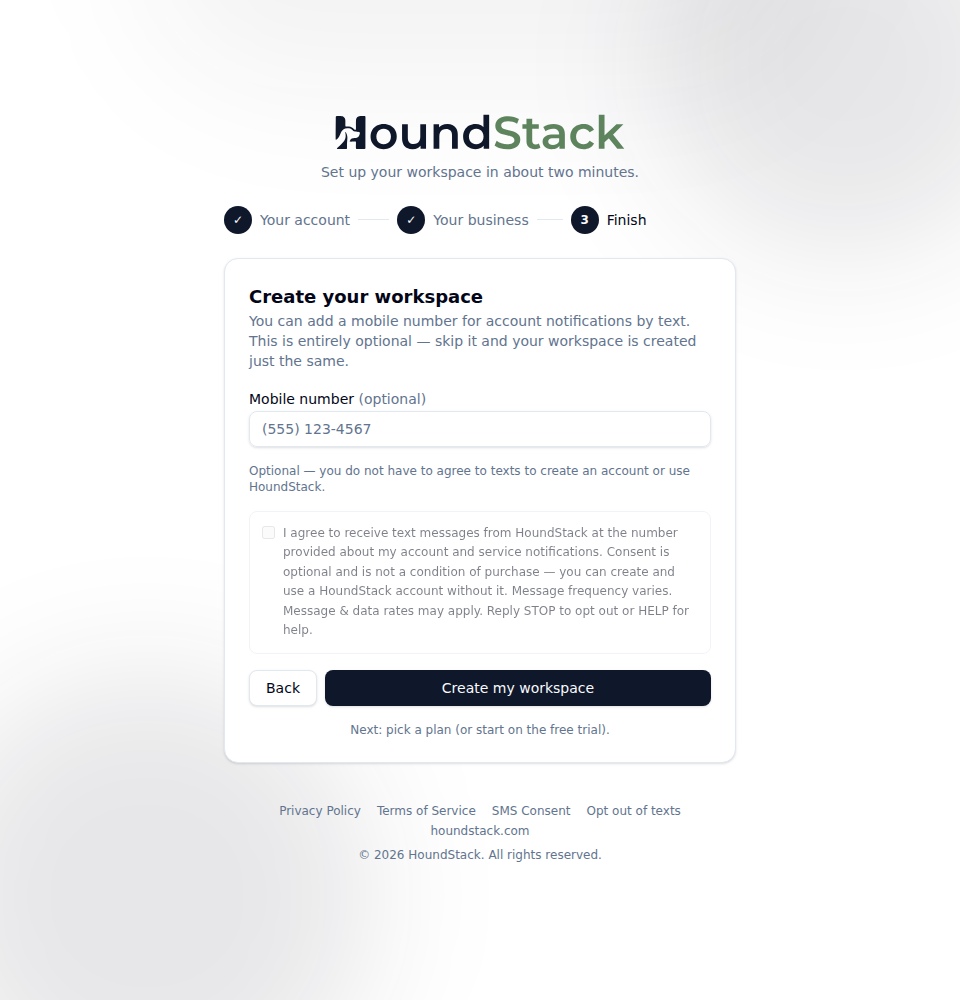
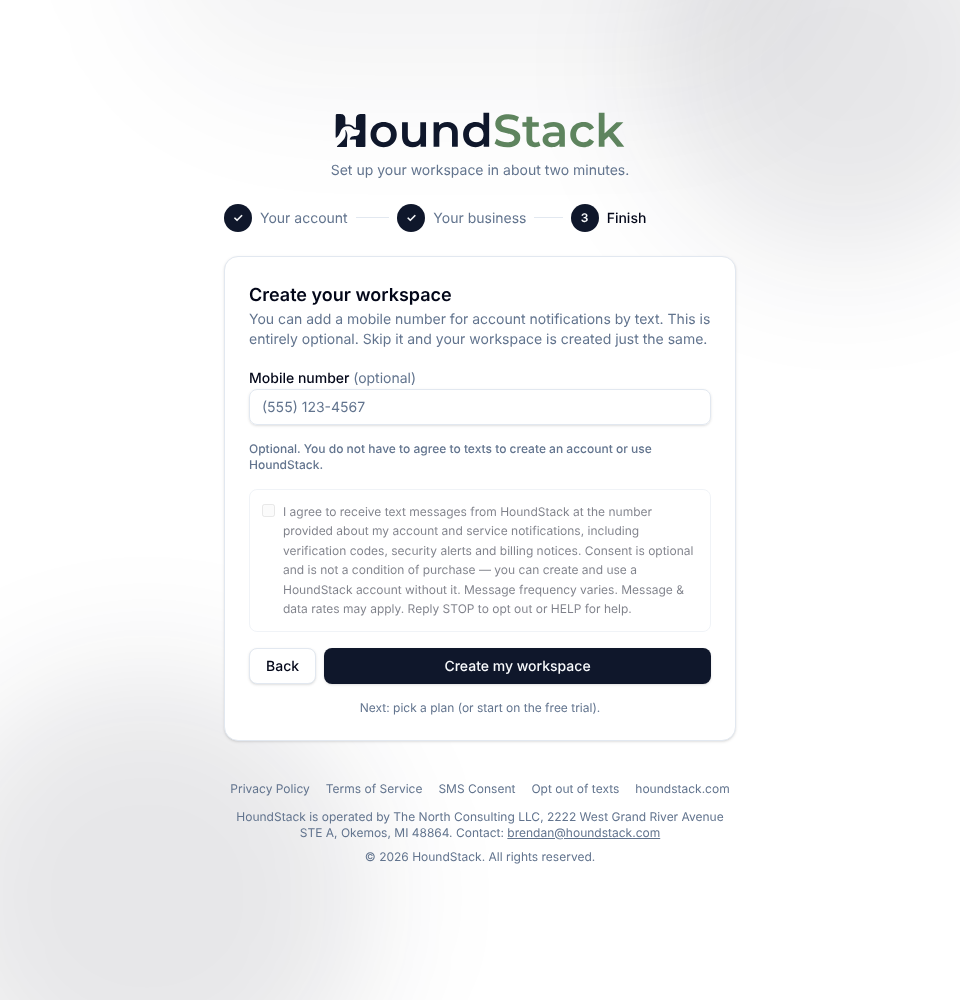
Say who runs HoundStack, and that texting is not live yet
Twilio rejected the toll-free verification for 30482 (contact email not on
the business domain) and 30474 (end-business details). Its reviewers check
the public pages for who operates the service and a same-domain contact, and
for policy wording that matches the filing.

- PublicFooter and the top of every /legal page now name The North
  Consulting LLC, its Okemos address, and brendan@houndstack.com. There is
  no phone number.
- /legal/sms: removes the claim that an account never needs a text. States
  the account-holder message types and says texting is coming soon, pending
  carrier registration. Drops the description of business-to-customer texts
  from this program.
- The signup consent sentence now names verification codes, security alerts
  and billing notices, and /legal/sms quotes it verbatim. The test now reads
  {" "} in the JSX, so a wrapped quote still compares.
- /legal/privacy: mobile numbers and consent records come only from opted-in
  account holders, are never shared or sold for marketing, and STOP/HELP
  handling is spelled out.
- Screenshots 3 to 8 are re-captured, with scripts/capture-sms-opt-in.mjs so
  they can be taken again against production.

Claude-Session: https://claude.ai/code/session_01WHCtARJyDNhr1vEJjgP34P

diff --git a/src/routes/legal.sms.tsx b/src/routes/legal.sms.tsx
@@ -22,7 +22,7 @@ export const Route = createFileRoute("/legal/sms")({
 
 function SmsPolicyPage() {
   return (
-    <LegalShell title="SMS Consent & Messaging Policy" updated="August 20, 2026">
+    <LegalShell title="SMS Consent & Messaging Policy" updated="October 7, 2026">
       <section>
         <h2>The short version</h2>
         <p>
@@ -62,25 +62,18 @@ function SmsPolicyPage() {
 
       <section>
         <h2>What messages we send</h2>
-        <p>{APP_NAME} sends two kinds of text messages, and both require prior consent:</p>
-        <ul>
-          <li>
-            <strong>Account messages to business users.</strong> If you create a {APP_NAME} account
-            and choose to give us a mobile number, we may text you account and service
-            notifications. This is optional: {APP_NAME} accounts sign in with an email address and
-            password, so you never need to receive a text to create, access or use your account.
-          </li>
-          <li>
-            <strong>Service messages to a business's customers.</strong> Pet-care businesses that
-            run on {APP_NAME} can text their own customers things like visit reminders,
-            "your technician is on the way" notices, visit-completed confirmations, portal sign-in
-            codes, overdue-invoice reminders, and review requests. These messages are sent only to
-            customers who gave that business their number and consent to be contacted.
-          </li>
-        </ul>
         <p>
-          We do not send marketing or promotional cold texts, and we never text numbers that have
-          not opted in.
+          <strong>Text messaging is coming soon and is pending carrier registration.</strong> No
+          text messages are sent under this program until that registration is complete.
+        </p>
+        <p>
+          Account holders who opt in may receive verification codes, security alerts, billing
+          notices and support replies by text from {APP_NAME}. These messages go only to the{" "}
+          {APP_NAME} account holder who gave us the number and ticked the consent box.
+        </p>
+        <p>
+          These messages are not used for marketing, and {APP_NAME} does not use them to message
+          account holders&apos; own customers. We never text numbers that have not opted in.
         </p>
       </section>
 
@@ -95,15 +88,15 @@ function SmsPolicyPage() {
         {/* em-dash-ok: quotes SMS_CONSENT_TEXT verbatim. See the note there. */}
         <p className="rounded-md border bg-muted/40 p-3 text-sm">
           "I agree to receive text messages from {APP_NAME} at the number provided about my account
-          and service notifications. Consent is optional and is not a condition of purchase — you
-          can create and use a {APP_NAME} account without it. Message frequency varies. Message
-          &amp; data rates may apply. Reply STOP to opt out or HELP for help."
+          and service notifications, including verification codes, security alerts and billing
+          notices. Consent is optional and is not a condition of purchase — you can create and use a{" "}
+          {APP_NAME} account without it. Message frequency varies. Message &amp; data rates may
+          apply. Reply STOP to opt out or HELP for help."
         </p>
         <p>
           We record when consent was given, the number it covers, and the exact language shown.
-          Businesses using {APP_NAME} to message their customers are responsible for collecting
-          equivalent consent from those customers, and the platform enforces opt-outs for them
-          automatically.
+          Mobile numbers and texting consent records are collected only from account holders who
+          opt in this way.
         </p>
       </section>
 
@@ -141,17 +134,17 @@ function SmsPolicyPage() {
         <h2>How to opt out (SMS un-consent)</h2>
         <ul>
           <li>
-            <strong>Reply STOP</strong> to any message you receive from {APP_NAME} or from a
-            business using {APP_NAME}. Opt-outs take effect immediately and are enforced
-            automatically: the platform blocks further texts to your number.
+            <strong>Reply STOP</strong> to any message you receive from {APP_NAME}. Opt-outs take
+            effect immediately and are enforced automatically: the platform blocks further texts to
+            your number, and we send one confirmation that you have been unsubscribed.
           </li>
           <li>
-            Reply <strong>HELP</strong> to any message for assistance.
+            Reply <strong>HELP</strong> to any message for assistance. We reply with our name and
+            how to reach support.
           </li>
           <li>
-            Business users can also remove their mobile number or withdraw texting consent in
-            Settings, and customers of a {APP_NAME} business can manage notification preferences in
-            their client portal or by contacting the business directly.
+            Account holders can also remove their mobile number or withdraw texting consent in
+            Settings.
           </li>
           <li>
             You can always email <a href="mailto:support@houndstack.com">support@houndstack.com</a>{" "}
@@ -167,11 +160,6 @@ function SmsPolicyPage() {
           promotional purposes. Text messaging originator opt-in data and consent are not shared
           with any third parties, except with our SMS delivery provider solely to send the messages
           you asked for. See our <a href="/legal/privacy">Privacy Policy</a> for full details.
-        </p>
-        <p>
-          If the business you are texting has turned on its automated assistant, your message is
-          sent to an AI provider to write the reply, and the assistant says that it is automated.
-          Replying STOP, START or HELP is always handled directly and never by the assistant.
         </p>
       </section>
 

diff --git a/src/routes/legal.privacy.tsx b/src/routes/legal.privacy.tsx
@@ -15,7 +15,7 @@ export const Route = createFileRoute("/legal/privacy")({
 
 function PrivacyPage() {
   return (
-    <LegalShell title="Privacy Policy" updated="September 29, 2026">
+    <LegalShell title="Privacy Policy" updated="October 7, 2026">
       <section>
         <p>
           {APP_NAME} ("we", "us") provides field-service software for pet-care businesses at
@@ -67,7 +67,7 @@ function PrivacyPage() {
           <li>To provide, maintain, and improve the service.</li>
           <li>To authenticate sign-ins and secure accounts.</li>
           <li>
-            To send communications you request or that are essential to the service: login codes,
+            To send communications you request or that are essential to the service: sign-in emails,
             visit and billing notifications, and account notices.
           </li>
           <li>To provide support and respond to requests.</li>
@@ -79,15 +79,30 @@ function PrivacyPage() {
       <section>
         <h2>Text messaging</h2>
         <p>
-          Text messages are only sent with prior consent, and every message includes opt-out
-          instructions (reply STOP).{" "}
+          <strong>Text messaging is coming soon and is pending carrier registration.</strong>
+        </p>
+        <p>
+          We collect mobile numbers and SMS consent records only from {APP_NAME} account holders who
+          opt in. When you opt in we store the number, the exact consent wording you agreed to, and
+          the time you agreed. Account holders who opt in may receive verification codes, security
+          alerts, billing notices and support replies by text from {APP_NAME}. We do not use these
+          messages for marketing.
+        </p>
+        <p>
           <strong>
-            No mobile information will be shared with third parties or affiliates for marketing or
-            promotional purposes.
+            Mobile numbers and SMS consent records are not shared with or sold to third parties or
+            affiliates for marketing or promotional purposes.
           </strong>{" "}
-          Text messaging originator opt-in data and consent are not shared with any third parties,
-          except with our SMS delivery provider solely to deliver the messages you asked for. See
-          the <a href="/legal/sms">SMS Consent &amp; Messaging Policy</a> for details.
+          The only party that receives them is our SMS delivery provider, and only to deliver the
+          messages you asked for. See the{" "}
+          <a href="/legal/sms">SMS Consent &amp; Messaging Policy</a> for details.
+        </p>
+        <p>
+          <strong>STOP and HELP.</strong> Reply STOP to any text from {APP_NAME} to opt out. The
+          opt-out takes effect immediately, we send one confirmation, and no further texts are sent
+          to that number. Reply HELP for help, or email{" "}
+          <a href="mailto:support@houndstack.com">support@houndstack.com</a>. You can also remove
+          your number or withdraw consent in Settings.
         </p>
         <p>
           <strong>Accepting this policy does not give consent to receive text messages.</strong>{" "}

diff --git a/tests/messaging-consent-cannot-be-a-condition-of-service.test.ts b/tests/messaging-consent-cannot-be-a-condition-of-service.test.ts
@@ -56,6 +56,7 @@ function publishedConsentText(): string {
   );
   expect(quote, "quoted consent block on /legal/sms").not.toBeNull();
   return quote![1]
+    .replaceAll('{" "}', " ")
     .replaceAll("{APP_NAME}", "HoundStack")
     .replaceAll("&amp;", "&")
     .replace(/\s+/g, " ")
@@ -152,5 +153,33 @@ describe("messaging consent cannot be a condition of service", () => {
     expect(linked.length, "screenshots linked from /legal/sms").toBeGreaterThanOrEqual(8);
     const missing = linked.filter((u) => !existsSync(join(root, "public", u)));
     expect(missing, `linked but not in public/: ${missing.join(", ")}`).toEqual([]);
+  });
+
+  // ── Twilio's THIRD rejection: 30482 (email domain) and 30474 (end-business
+  // details) ──────────────────────────────────────────────────────────────
+  //
+  // The reviewer has to find, on the public site, who operates HoundStack and
+  // a contact address on the houndstack.com domain, and policy wording that
+  // matches the filing. The filing says texting is not live yet and covers
+  // account holders only.
+  it("names the operator and a same-domain contact on every legal page and in the footer", () => {
+    const footer = readFileSync(join(root, "src/components/PublicFooter.tsx"), "utf8");
+    const shell = readFileSync(join(root, "src/components/LegalShell.tsx"), "utf8");
+    const flat = footer.replace(/\s+/g, " ");
+    expect(flat).toMatch(
+      /is operated by The North Consulting LLC, 2222 West Grand River Avenue STE A, Okemos, MI 48864\. Contact:/,
+    );
+    expect(footer).toMatch(/href="mailto:brendan@houndstack\.com"/);
+    expect(footer).toMatch(/<OperatorIdentity /);
+    expect(shell).toMatch(/<OperatorIdentity /);
+  });
+
+  it("says texting is not live, and never claims an account never needs a text", () => {
+    for (const page of [legalSms, legalPrivacy]) {
+      expect(page.replace(/\s+/g, " ")).toMatch(
+        /Text messaging is coming soon and is pending carrier registration\./,
+      );
+    }
+    expect(legalSms).not.toMatch(/never need to receive a text/i);
   });
 });

diff --git a/src/components/PublicFooter.tsx b/src/components/PublicFooter.tsx
@@ -27,9 +27,30 @@ export function PublicFooter() {
           houndstack.com
         </a>
       </nav>
+      <OperatorIdentity className="mx-auto mt-3 max-w-xl" />
       <p className="mt-2">
         © {new Date().getFullYear()} {APP_NAME}. All rights reserved.
       </p>
     </footer>
+  );
+}
+
+/**
+ * Who operates HoundStack, with a contact address on the same domain. Twilio
+ * rejected the toll-free verification for 30482 (contact email not on the
+ * business domain) and 30474 (end-business details), and its reviewers check
+ * the public site for exactly this sentence. It must match the filing word for
+ * word, so it lives in one place: this footer and the top of every /legal page.
+ * No phone number, deliberately.
+ */
+export function OperatorIdentity({ className }: { className?: string }) {
+  return (
+    <p className={className}>
+      {APP_NAME} is operated by The North Consulting LLC, 2222 West Grand River Avenue STE A,
+      Okemos, MI 48864. Contact:{" "}
+      <a href="mailto:brendan@houndstack.com" className="underline hover:text-foreground">
+        brendan@houndstack.com
+      </a>
+    </p>
   );
 }

diff --git a/src/components/LegalShell.tsx b/src/components/LegalShell.tsx
@@ -2,7 +2,7 @@ import type { ReactNode } from "react";
 import { Link, useCanGoBack, useRouter } from "@tanstack/react-router";
 import { ChevronLeft } from "lucide-react";
 import { Logo } from "@/components/Logo";
-import { PublicFooter } from "@/components/PublicFooter";
+import { OperatorIdentity, PublicFooter } from "@/components/PublicFooter";
 import { nativeTopBarStyle } from "@/lib/native-build";
 
 /**
@@ -77,6 +77,7 @@ export function LegalShell({
       <main className="mx-auto max-w-3xl pl-[calc(1.5rem+env(safe-area-inset-left))] pr-[calc(1.5rem+env(safe-area-inset-right))] py-10 pb-[calc(2.5rem+env(safe-area-inset-bottom))]">
         <h1 className="text-3xl font-semibold">{title}</h1>
         <p className="mt-1 text-sm text-muted-foreground">Last updated: {updated}</p>
+        <OperatorIdentity className="mt-3 rounded-md border bg-muted/40 p-3 text-sm" />
         <div className="mt-8 space-y-8 text-[15px] leading-relaxed [&_h2]:text-lg [&_h2]:font-semibold [&_h3]:font-medium [&_p]:mt-2 [&_ul]:mt-2 [&_ul]:list-disc [&_ul]:space-y-1 [&_ul]:pl-6">
           {children}
         </div>

diff --git a/src/routes/get-started.tsx b/src/routes/get-started.tsx
@@ -67,9 +67,10 @@ export const Route = createFileRoute("/get-started")({
 // all.
 export const SMS_CONSENT_TEXT =
   `I agree to receive text messages from ${APP_NAME} at the number provided about my ` +
-  `account and service notifications. Consent is optional and is not a condition of ` +
-  `purchase — you can create and use a ${APP_NAME} account without it. Message ` +
-  `frequency varies. Message & data rates may apply. Reply STOP to opt out or HELP for help.`;
+  `account and service notifications, including verification codes, security alerts and ` +
+  `billing notices. Consent is optional and is not a condition of purchase — you can ` +
+  `create and use a ${APP_NAME} account without it. Message frequency varies. Message & ` +
+  `data rates may apply. Reply STOP to opt out or HELP for help.`;
 
 // Not "Texting". The last step creates the workspace; the texting opt-in is one
 // optional control inside it. Naming the step after the opt-in made messaging
